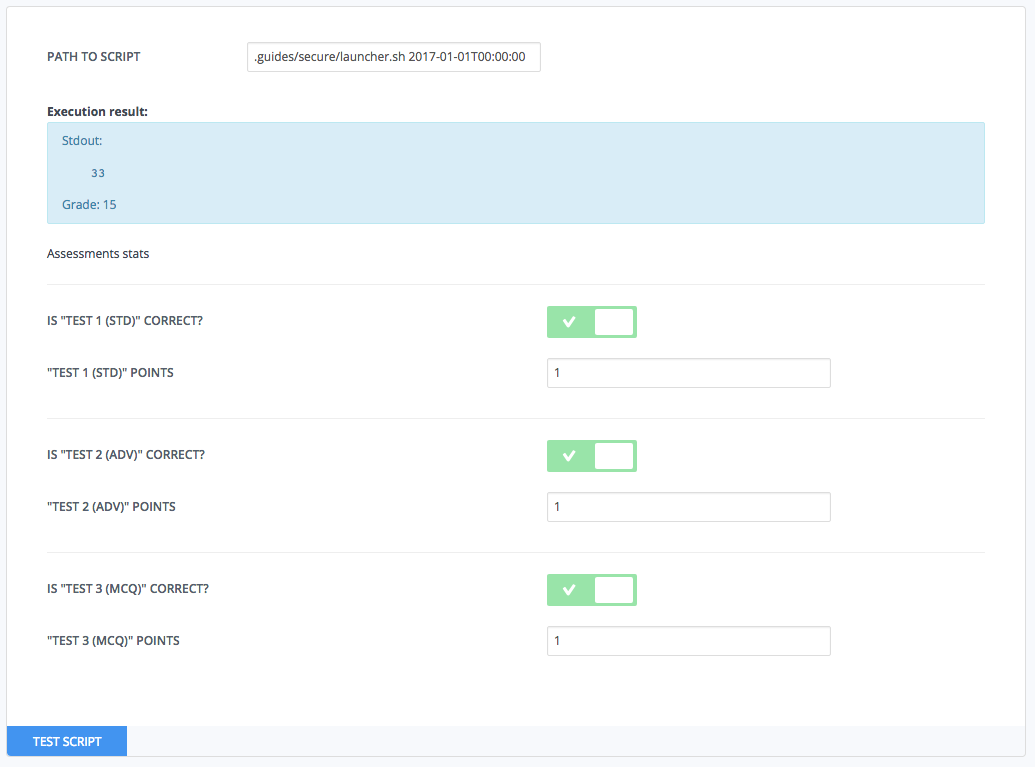
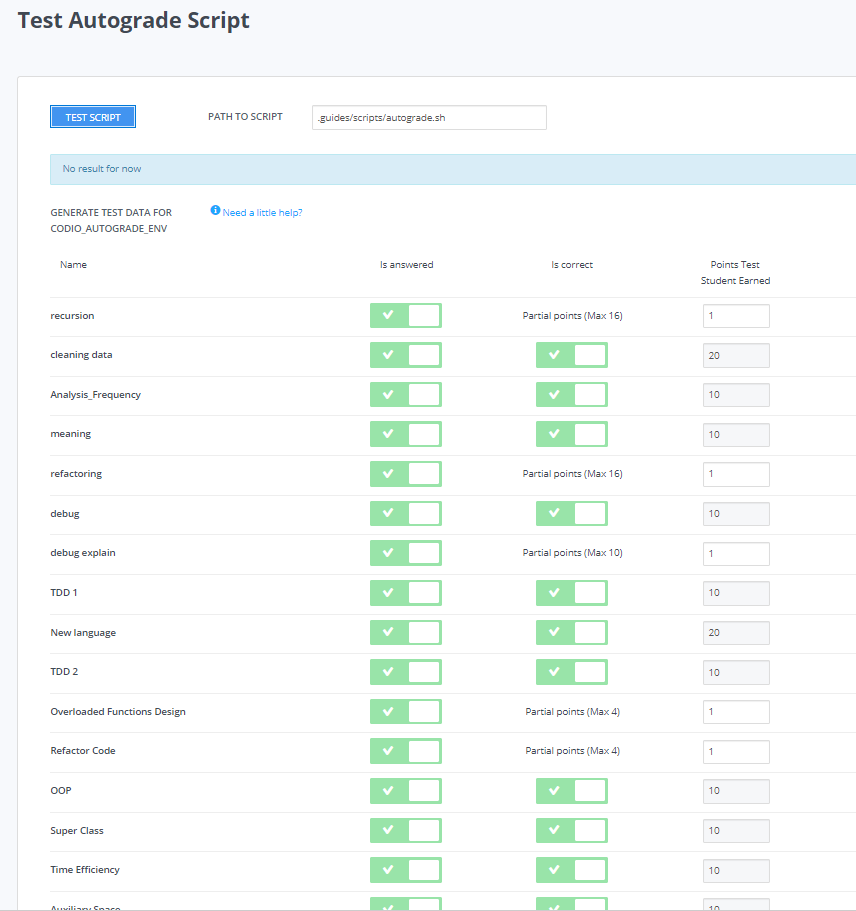
6apr (#96)
* changelog #12362

* changelog #12409

* changelog #12266

* changelog #12383

diff --git a/docs/courses/classes.md b/docs/courses/classes.md
@@ -967,7 +967,7 @@ You are now free to debug the Python script and fix any bugs that you may have n
 #### Testing your script in the IDE
 We provide the ability to test your autograding script from the **Education -> Test Autograde Script** menu.
 
-This option lets you specify the location to your autograding script and run it against the current project contents. It also lets you simulate scores attained by any autograded assessments located within the Codio Guide.
+This option lets you specify the location to your autograding script and run it against the current project contents. It also lets you simulate scores attained by any autograded assessments located within the Codio Guide and select which autograded assessments to test.
 
 ![authtoken](/img/autograde-test.png)
 

diff --git a/docs/resources/changelog.md b/docs/resources/changelog.md
@@ -13,6 +13,7 @@ We do not report small bug fixes or issues that affect individual users, who we 
 
 **April 2021**
 
+- `[I] [ 7th]`: Improve [Test Autograde Script](/courses/classes/#testing-your-script-in-the-ide) to allow control of which autograded assessments to test
 - `[I] [ 6th]`: Fix issue allowing students to access assignments before start date where Visibility on Disabled = Read Only
 - `[I] [ 6th]`: Add support for custom feedback message handling in [Junit](/courses/assessments/#using-junit) advanced code test
 - `[I] [ 6th]`: Improve publish assignment dialog
